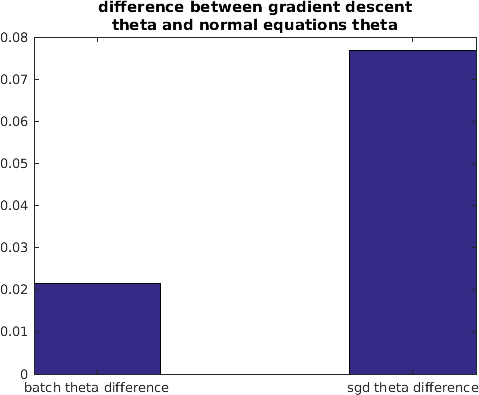
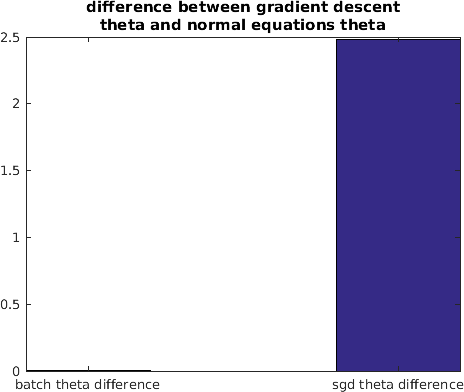
update

diff --git a/pset1/solutions/P1/central_diff_analysis.m b/pset1/solutions/P1/central_diff_analysis.m
@@ -1,4 +1,4 @@
-function [mean_error] = central_diff_analysis(grad, f, solution, func_name, h )
+function [mean_error] = central_diff_analysis(grad, f, solution, func_name, h, normal_h )
 directory_name = '/home/brandon/classes/6.867/pset1/solutions/P1/images/1_2/';
 %% compare analytic and numeric gradients at the points of gradient descent
 ana_grad = [];
@@ -12,23 +12,19 @@ grad_error = [];
 for i = 1:size(X, 1)
     for j = 1:size(X, 2)
         x = [X(1, i); Y(j, 1)];
-        h;
-        num_grad = [1;1];
-        num_grad(1) = (f([x(1)+h;x(2)]) - f([x(1)-h;x(2)]))/(2*h);
-        num_grad(2) = (f([x(1);x(2)+h]) - f([x(1);x(2)-h]))/(2*h);
-        %num_grad = GradientDescent.central_diff(x, f, h);
+        num_grad = GradientDescent.central_diff(x, f, h);
         ana_grad = grad(x);
         grad_error(i, j) = norm(num_grad - ana_grad);
     end
 end
 
-mean_error = mean(mean(grad_error.^2));
+mean_error = mean(mean(grad_error));
 
 figure
 surf(X, Y, grad_error)
 xlabel('x')
 ylabel('y')
 zlabel('error')
-title({'error between numerical and analytic gradients', ['of ' func_name ' for step size h = ' num2str(h)]})
-export_fig([directory_name func_name '_' num2str(h) '.png']);
+title({'error between numerical and analytic gradients', ['of ' func_name ' for step size h = ' num2str(normal_h)]})
+export_fig([directory_name func_name '_' num2str(normal_h) '.png']);
 end

diff --git a/pset1/solutions/P1/compare_batch_sgd.m b/pset1/solutions/P1/compare_batch_sgd.m
@@ -11,8 +11,8 @@ grad = @(theta) GradientDescent.grad_batch_J(X, y, theta);
 f = @(theta) GradientDescent.batch_J(X, y, theta);
 init_x = zeros(size(X(1,:)))';
 step_size = 0.0000001;
-precision = 0.00000001;
-precision = 0.0001;
+precision = 0.0000001;
+% precision = 0.0001;
 
 [result, grad_norm, steps, gX, gY, gZ] = GradientDescent.grad_descent(grad, f, init_x, step_size, precision);
 

diff --git a/pset1/solutions/P1/GradientDescent.m b/pset1/solutions/P1/GradientDescent.m
@@ -3,7 +3,7 @@ classdef GradientDescent
     methods(Static)
         %% stochastic gradient descent
         function [ cur_theta, previous_step_size ] = sgd( grad, cur_theta, i )
-            step_size = (12000000 + i)^-0.7;
+            step_size = (500000 + i)^-0.95;
 
             prev_theta = cur_theta;
             gradient = grad(cur_theta);

diff --git a/pset1/solutions/P1/central_diff_quad_plots.m b/pset1/solutions/P1/central_diff_quad_plots.m
@@ -11,9 +11,9 @@ func_name = 'quadBowl';
 means = [];
 hs = [];
 for i = 1:10
-    h = 10^(i-20);
+    h = 10^(i-10)
     hs = [h; hs];
-    meanv = central_diff_analysis(grad, f, solution, func_name, h);
+    meanv = central_diff_analysis(grad, f, solution, func_name, vpa(h, 32), h);
     means = [meanv; means];
 end
 

diff --git a/pset1/solutions/P1/central_diff_gauss_plots.m b/pset1/solutions/P1/central_diff_gauss_plots.m
@@ -13,7 +13,7 @@ hs = [];
 for i = 1:11
     h = 10^(i-8);
     hs = [h; hs];
-    meanv = central_diff_analysis(grad, f, solution, func_name, h);
+    meanv = central_diff_analysis(grad, f, solution, func_name, vpa(h,32), h);
     means = [meanv; means];
 end
 
